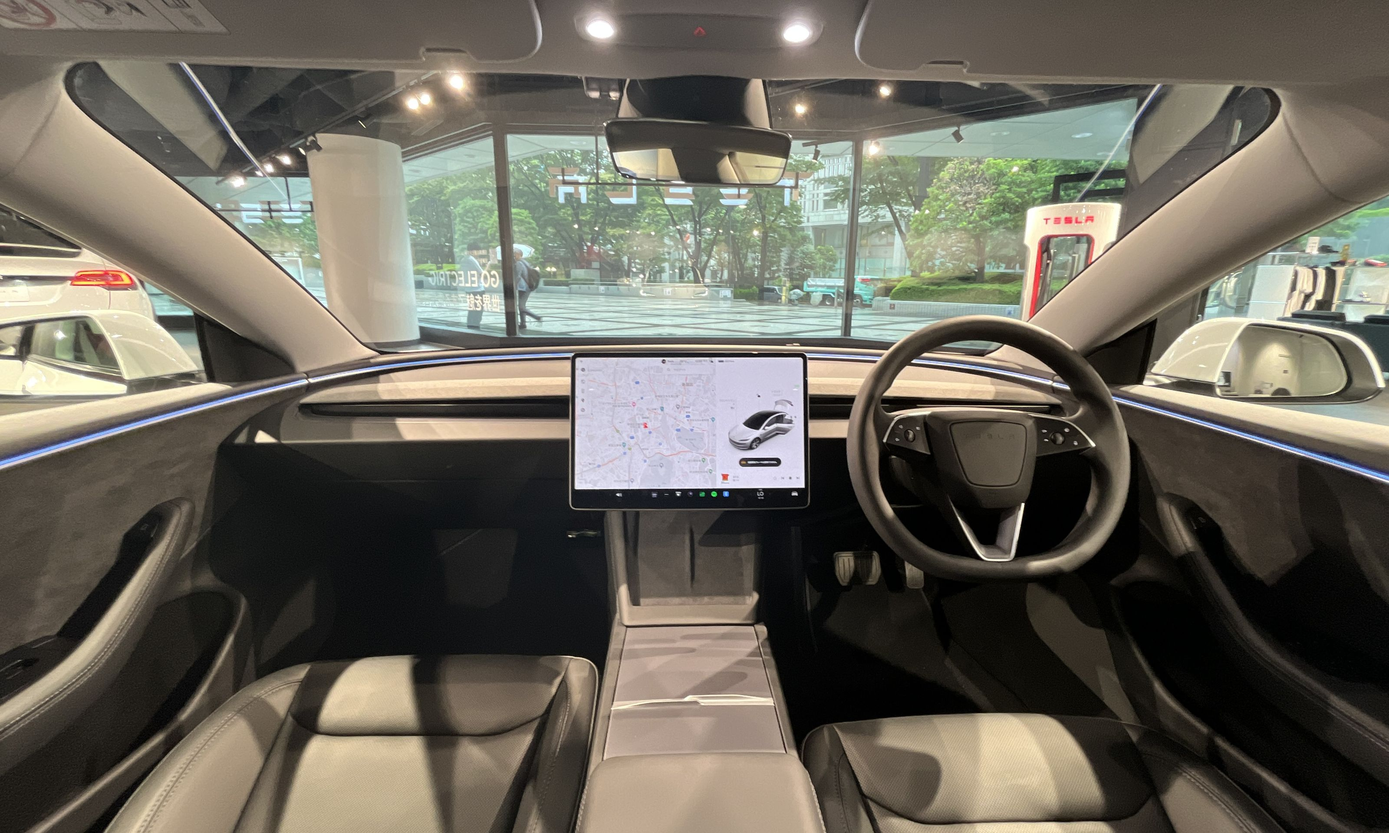
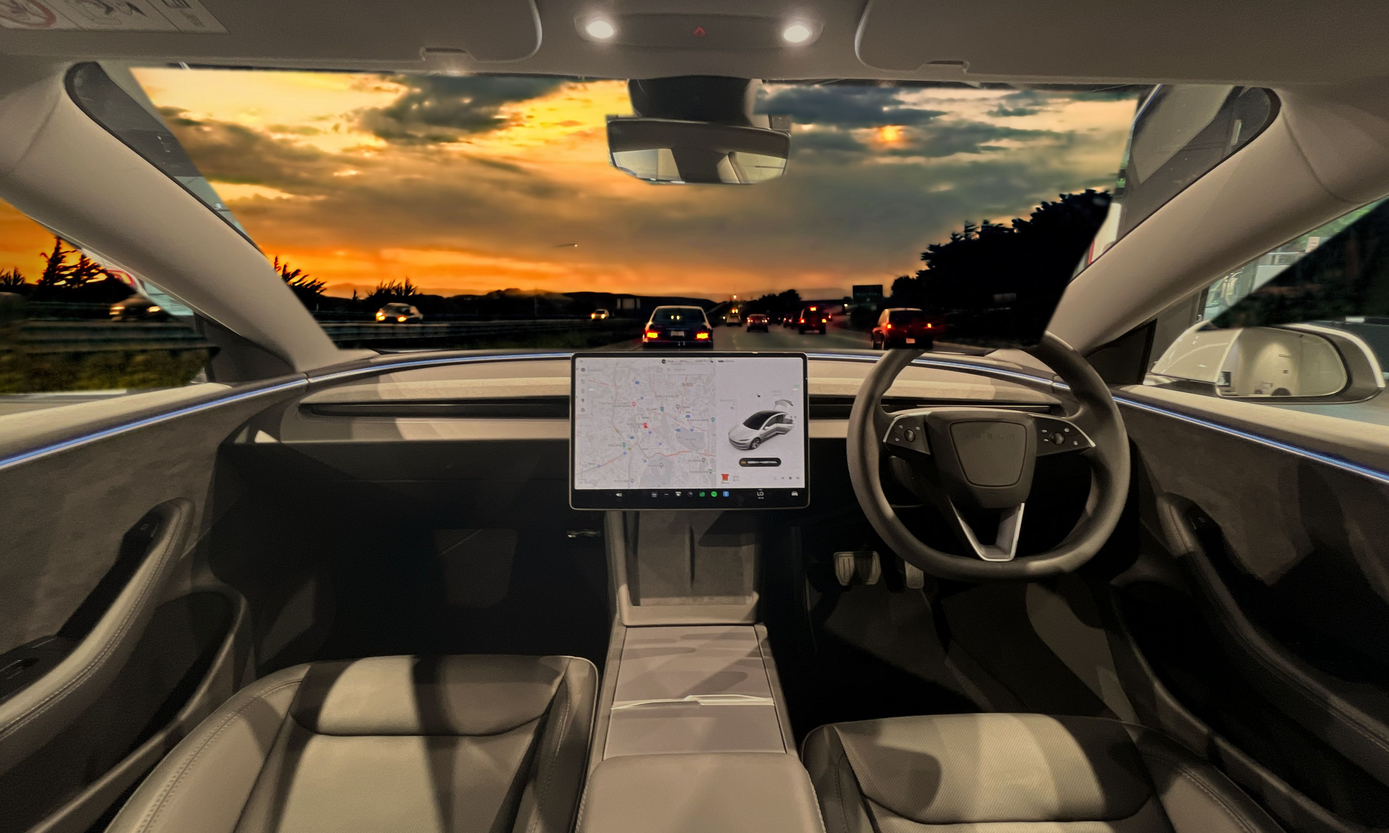
Simulaciones: auto en carretera al atardecer y lentes dentro de una tienda con el marco visible
- Auto: los vidrios de la foto del interior se recortaron y detrás va una carretera al atardecer (bluesbby, CC BY 2.0); interior con luz cálida; encuadre final con los autos de adelante sobre el tablero
- Lentes: la escena pasa a una tienda de regalos (Andre Carrotflower, CC BY-SA 4.0); la mirada cae en una tabla de madera y propone el mielero; marco de los lentes implícito (dos lentes con borde difuso, puente de la nariz y periferia desenfocada)

diff --git a/index.html b/index.html
@@ -1003,6 +1003,8 @@ body.sim-on .fab{display:none}
 .ph-gl{position:absolute;inset:0;z-index:5;pointer-events:none;background:linear-gradient(118deg,rgba(255,255,255,.13) 0,rgba(255,255,255,.04) 28%,transparent 44%,transparent 80%,rgba(255,255,255,.05))}
 .ph-sc{position:absolute;inset:0;z-index:1;pointer-events:none;background:linear-gradient(180deg,rgba(8,10,14,.62),rgba(8,10,14,.2) 22%,transparent 36%,transparent 82%,rgba(0,0,0,.3))}
 #sim .tn-cap{text-shadow:0 1px 12px rgba(0,0,0,.5)}
+.ph-lens{position:absolute;inset:0;z-index:2;width:100%;height:100%;pointer-events:none}
+.ph-blur{position:absolute;inset:0;z-index:2;pointer-events:none;-webkit-backdrop-filter:blur(7px);backdrop-filter:blur(7px);-webkit-mask-image:radial-gradient(ellipse 72% 68% at 50% 48%,transparent 62%,#000 100%);mask-image:radial-gradient(ellipse 72% 68% at 50% 48%,transparent 62%,#000 100%)}
 .ph-cr{position:absolute;right:14px;bottom:10px;z-index:2;font-size:10px;color:rgba(255,255,255,.45);pointer-events:none}
 .ph-q .sim-b1,.ph-q .sim-b2{min-height:0;padding:0 1em}
 
@@ -1091,7 +1093,7 @@ body.sim-on .fab{display:none}
 .rl-t{font-size:14px!important;margin-top:6px!important}
 .rl-why{display:block;margin-top:3px;font-family:'Newsreader',serif;font-style:italic;font-size:13px;line-height:1.25;color:rgba(255,255,255,.85)}
 /* lentes: interfaz espacial sobre lo que ves (foto real del Pueblito Los Dominicos) */
-.vp-hl{position:absolute;width:5.2%;aspect-ratio:1;border-radius:50%;transform:translate(-50%,-50%) scale(.8);background:radial-gradient(closest-side,rgba(255,255,255,.22),rgba(255,255,255,.06) 70%,transparent);box-shadow:0 0 0 2px rgba(255,255,255,.8),0 0 36px 8px rgba(255,255,255,.3);opacity:0;transition:opacity .5s,transform .6s cubic-bezier(.2,.9,.3,1.3);pointer-events:none}
+.vp-hl{position:absolute;width:8.4%;aspect-ratio:1;border-radius:50%;transform:translate(-50%,-50%) scale(.8);background:radial-gradient(closest-side,rgba(255,255,255,.22),rgba(255,255,255,.06) 70%,transparent);box-shadow:0 0 0 2px rgba(255,255,255,.8),0 0 36px 8px rgba(255,255,255,.3);opacity:0;transition:opacity .5s,transform .6s cubic-bezier(.2,.9,.3,1.3);pointer-events:none}
 .vp-hl.on{opacity:1;transform:translate(-50%,-50%) scale(1)}
 .vp-gz{position:absolute;left:0;top:0;z-index:4;width:22px;height:22px;margin:-11px 0 0 -11px;border-radius:50%;background:rgba(255,255,255,.55);box-shadow:0 0 0 1px rgba(255,255,255,.7),0 4px 12px rgba(0,0,0,.25);-webkit-backdrop-filter:blur(6px);backdrop-filter:blur(6px);opacity:0;pointer-events:none}
 .vp-win{position:absolute;left:0;top:0;z-index:5;width:min(310px,calc(100vw - 32px));opacity:0;pointer-events:none}
@@ -1108,8 +1110,8 @@ body.sim-on .fab{display:none}
 .vp-btn{display:block;width:100%;height:46px;margin-top:14px;border-radius:999px;background:rgba(255,255,255,.92);color:#0e1014;font-size:14.5px;font-weight:700;transition:transform .2s,background .2s}
 .vp-btn:hover{transform:scale(1.03);background:#fff}
 .vp-bar{display:block;width:64px;height:5px;margin:10px auto 0;border-radius:3px;background:rgba(255,255,255,.55);box-shadow:0 1px 4px rgba(0,0,0,.2)}
-.vp-hint{position:absolute;left:50%;bottom:72px;z-index:6;display:flex;align-items:center;gap:7px;transform:translateX(-50%);border-radius:999px;background:rgba(128,128,128,.3);padding:7px 14px;font-size:12.5px;font-weight:600;color:#fff;white-space:nowrap;-webkit-backdrop-filter:blur(20px);backdrop-filter:blur(20px);opacity:0;transition:opacity .3s}
-.vp-orn{position:absolute;left:50%;bottom:22px;z-index:6;display:flex;align-items:center;gap:8px;transform:translateX(-50%);border-radius:999px;background:rgba(128,128,128,.3);padding:5px 14px 5px 5px;font-size:12.5px;font-weight:600;color:#fff;white-space:nowrap;-webkit-backdrop-filter:blur(20px);backdrop-filter:blur(20px);box-shadow:inset 0 1px 0 rgba(255,255,255,.35)}
+.vp-hint{position:absolute;left:50%;bottom:136px;z-index:6;display:flex;align-items:center;gap:7px;transform:translateX(-50%);border-radius:999px;background:rgba(128,128,128,.3);padding:7px 14px;font-size:12.5px;font-weight:600;color:#fff;white-space:nowrap;-webkit-backdrop-filter:blur(20px);backdrop-filter:blur(20px);opacity:0;transition:opacity .3s}
+.vp-orn{position:absolute;left:50%;bottom:86px;z-index:6;display:flex;align-items:center;gap:8px;transform:translateX(-50%);border-radius:999px;background:rgba(128,128,128,.3);padding:5px 14px 5px 5px;font-size:12.5px;font-weight:600;color:#fff;white-space:nowrap;-webkit-backdrop-filter:blur(20px);backdrop-filter:blur(20px);box-shadow:inset 0 1px 0 rgba(255,255,255,.35)}
 .vp-orn span{width:26px;height:26px;border-radius:50%;overflow:hidden}.vp-orn .pt{width:100%;height:100%}
 .vp-orn b{display:grid;place-items:center;min-width:20px;height:20px;border-radius:10px;background:#fff;color:#0e1014;font-size:11px}
 @media(max-width:620px){.vp-t1{font-size:22px;margin-top:6px}.vp-wc{padding:14px}.vp-btn{height:42px;margin-top:10px}.vp-hint{display:none}}
@@ -3367,7 +3369,7 @@ const SIM = {
   voz:   {t:'En el parlante.', d:'Mientras cocinas, te hago la única pregunta que ningún conector me puede responder.', n:'Papá'},
   refri: {t:'En el refri.',    d:'Alguien de la casa anotó un cumple en el calendario de la cocina. Lo sumo a tus fechas.', n:'Tía Ana'},
   reloj: {t:'En el reloj.',    d:'El mismo aviso de 14 días, en tu muñeca. Ves cómo elegí y lo apruebas con un toque.', n:'Andrés'},
-  lentes:{t:'En los lentes.',  d:'Paseas por el Pueblito Los Dominicos. Algo te recuerda a tu mamá y lo guardas con un gesto.', n:'Mamá', h:'mielero-en-ceramica-gres'},
+  lentes:{t:'En los lentes.',  d:'Recorres una tienda con tus lentes. Algo te recuerda a tu mamá y lo guardas con un gesto.', n:'Mamá', h:'mielero-en-ceramica-gres'},
 };
 const SIM_KEY = {c:'car',a:'voz',r:'refri',w:'reloj',l:'lentes'};
 const VOZ_DESC = {'bufanda-alpaca-unisex-chocolate':['una bufanda de alpaca','la']};
@@ -3403,9 +3405,9 @@ const rel = p => (REL[p.n]||p.n).replace(/^Tu /,'tu ');
    La foto llena la vista y la interfaz se proyecta (matrix3d) sobre la pantalla que aparece en ella.
    q: esquinas de la pantalla en la foto (sup. izq., sup. der., inf. der., inf. izq.), en fracción del ancho/alto. */
 const PH = {
-  auto:  {src:'sim/auto.jpg',   ar:3200/1919, q:[[.4138,.4292],[.5792,.4292],[.5800,.6070],[.4134,.6070]], sar:1.54},
+  auto:  {src:'sim/auto.jpg',   ar:3200/1920, cr:'Fotos: Kazyakuruma (CC0) · bluesbby, CC BY 2.0', q:[[.4138,.4292],[.5792,.4292],[.5800,.6070],[.4134,.6070]], sar:1.54},
   refri: {src:'sim/refri.jpg',  ar:4/3,       q:[[.165,.271],[.915,.264],[.825,.689],[.245,.696]], sar:2.1, cr:'Foto: David Berkowitz · CC BY 2.0'},
-  lentes:{src:'sim/lentes.jpg', ar:2800/1838, cr:'Foto: Rjcastillo · CC BY-SA 4.0'},
+  lentes:{lens:1, src:'sim/tienda.jpg', ar:2702/2022, cr:'Foto: Andre Carrotflower · CC BY-SA 4.0'},
 };
 let phCam=null;
 const lerp=(a,b,k)=>a+(b-a)*k;
@@ -3415,8 +3417,13 @@ function quadM(w,h,q){
   const g=(dx3*dy2-dx2*dy3)/den, hh=(dx1*dy3-dx3*dy1)/den, a=x1-x0+g*x1, b=x3-x0+hh*x3, d=y1-y0+g*y1, e=y3-y0+hh*y3;
   return `matrix3d(${a/w},${d/w},0,${g/w},${b/h},${e/h},0,${hh/h},0,0,1,0,${x0},${y0},0,1)`;
 }
+const LENS=`<div class="ph-blur" aria-hidden="true"></div><svg class="ph-lens" viewBox="0 0 1000 600" preserveAspectRatio="none" aria-hidden="true">
+  <defs><filter id="lnF" x="-10%" y="-10%" width="120%" height="120%"><feGaussianBlur stdDeviation="9"/></filter>
+  <mask id="lnM"><rect width="1000" height="600" fill="#fff"/><g filter="url(#lnF)" fill="#000"><rect x="8" y="10" width="574" height="584" rx="220"/><rect x="418" y="10" width="574" height="584" rx="220"/></g></mask></defs>
+  <rect width="1000" height="600" fill="#0b0b0d" fill-opacity=".9" mask="url(#lnM)"/>
+  <path d="M444 600 C462 566 480 546 500 546 C520 546 538 566 556 600Z" fill="#0b0b0d" fill-opacity=".9" filter="url(#lnF)"/></svg>`;
 const phMount=(k,{screen='',world='',layer=''}={})=>{ const P=PH[k];
-  return `<div class="ph" id="phV"><img class="ph-bg" src="${P.src}" alt=""><div class="ph-w" id="phW"><img class="ph-i" src="${P.src}" alt="">${P.q?`<div class="ph-q" id="phQ">${screen}<i class="ph-gl"></i></div>`:''}${world}</div><div class="ph-sc"></div>${layer}${P.cr?`<small class="ph-cr">${P.cr}</small>`:''}</div>`; };
+  return `<div class="ph" id="phV"><img class="ph-bg" src="${P.src}" alt=""><div class="ph-w" id="phW"><img class="ph-i" src="${P.src}" alt="">${P.q?`<div class="ph-q" id="phQ">${screen}<i class="ph-gl"></i></div>`:''}${world}</div><div class="ph-sc"></div>${P.lens?LENS:''}${layer}${P.cr?`<small class="ph-cr">${P.cr}</small>`:''}</div>`; };
 /* cámara: k=0 muestra la foto completa; k=1 acerca hasta que la pantalla (o el foco) queda en "at" con el tamaño de zoomTo */
 function phCamera(k,{focus,zoomTo,at=[.5,.5],par=0,onMove}={}){
   const P=PH[k], V=$('phV'), W=$('phW'), Q=$('phQ'), st={k:0,mx:0,my:0}; let L={};
@@ -3457,7 +3464,7 @@ function simCar(p){
         <h4>Hoy es el cumple de ${rel(p)} y no tienes regalo. Pídelo ya, te lo llevo ahí.</h4>
         <div class="car-g">${img(x.u,'')}<span class="min-w-0"><b class="block truncate">${esc(x.t)}</b><small class="num">${clp(x.p)}</small><em>Llega antes que tú</em></span></div>
         <div class="car-bt" id="carBt"><button class="sim-b1" data-s="yes">Sí, mándalo</button><button class="sim-b2" data-s="no">Ahora no</button></div></div></div></div>`});
-  const cam=phCamera('auto',{zoomTo:(vw,vh)=>vw<=620?vw-20:Math.min(vw*.44,(vh-260)*1.54,660),at:[.5,.58]});
+  const cam=phCamera('auto',{zoomTo:(vw,vh)=>vw<=620?vw-20:Math.min(vw*.4,(vh-300)*1.54,620),at:[.5,.64]});
   const show=()=>{ const b=$('carB'); if(!b) return; b.style.visibility='visible'; if(!REDUCE) gsap.from(b,{x:30,opacity:0,duration:.6,ease:'power3.out'}); };
   if(REDUCE){ cam.st.k=1; cam.draw(); show(); }
   else gsap.to(cam.st,{k:1,duration:2.4,delay:.5,ease:'power2.inOut',onUpdate:cam.draw,onComplete:show});
@@ -3522,14 +3529,14 @@ function simReloj(){
 
 /* lentes: guardas una idea mirando, al estilo de una interfaz espacial */
 function simLentes(p,S){
-  const x=prod(S.h), n0=(SAVED[p.n]||[]).length, POT=[.5104,.5683], mob=innerWidth<=620;
+  const x=prod(S.h), n0=(SAVED[p.n]||[]).length, POT=[.338,.564], mob=innerWidth<=620;
   $('simD').innerHTML=phMount('lentes',{world:`<span class="vp-hl" id="glL" style="left:${POT[0]*100}%;top:${POT[1]*100}%"></span>`,
     layer:`<span class="vp-gz" id="glZ" aria-hidden="true"></span>
     <div class="vp-win" id="glG"><div class="vp-wc">
       <p class="vp-k"><span class="vp-ap">${GIFT_I}</span>Cuenta conmigo</p>
       <b class="vp-t1">Esto me recordó a ${rel(p)}.</b>
       <div class="vp-pr"><img id="glT" src="${x.u}" alt=""><span class="min-w-0"><b>${esc(x.t)}</b><small class="num">${clp(x.p)} · en Creado</small></span></div>
-      <p class="vp-why"><img src="${SI('pinterest','E60023')}" alt="">Guarda ideas de greda</p>
+      <p class="vp-why"><img src="${SI('pinterest','E60023')}" alt="">Guarda ideas de cocina</p>
       <button class="vp-btn" data-s="yes">Guardar para su cumple</button></div>
       <i class="vp-bar" aria-hidden="true"></i></div>
     <p class="vp-hint" id="glH"><svg width="16" height="16" viewBox="0 0 24 24" fill="none" stroke="currentColor" stroke-width="2" stroke-linecap="round"><path d="M8 13V6a1.5 1.5 0 0 1 3 0v6M11 11V4.5a1.5 1.5 0 0 1 3 0V11M14 11V6a1.5 1.5 0 0 1 3 0v7c0 4-2.5 7-6 7s-5-2-6.5-5L3 11.5a1.5 1.5 0 0 1 2.5-1.5L8 13"/></svg>Mira y junta los dedos</p>
@@ -3537,10 +3544,10 @@ function simLentes(p,S){
   const V=$('phV'), Z=$('glZ'), G=$('glG'); let look=false;
   /* la ventana queda junto a lo que miras, como si estuviera en el espacio */
   const place=()=>{ if(!phCam||!G.isConnected) return; const [px,py]=phCam.toView(...POT), L=phCam.L(), gw=G.offsetWidth, gh=G.offsetHeight;
-    if(mob){ G.style.left=(L.vw-gw)/2+'px'; G.style.top=(L.vh-gh-74)+'px'; }
+    if(mob){ G.style.left=(L.vw-gw)/2+'px'; G.style.top=(L.vh-gh-140)+'px'; }
     else { G.style.left=Math.min(L.vw-gw-24,px+L.w*L.s*.05)+'px'; G.style.top=Math.max(90,Math.min(L.vh-gh-80,py-gh/2))+'px'; }
     if(look) gsap.set(Z,{x:px,y:py}); };
-  const cam=phCamera('lentes',{focus:POT,zoomTo:(vw)=>vw<=620?1.15:1.7,at:mob?[.5,.3]:[.36,.55],par:REDUCE?0:.03,onMove:place});
+  const cam=phCamera('lentes',{focus:POT,zoomTo:(vw)=>vw<=620?1.8:1.7,at:mob?[.5,.3]:[.36,.55],par:REDUCE?0:.03,onMove:place});
   const lookAt=()=>{ if(!G.isConnected) return; look=true; $('glL').classList.add('on'); place(); G.classList.add('on'); };
   if(REDUCE){ cam.st.k=1; cam.draw(); lookAt(); $('glH').style.opacity=1; }
   else { const L=cam.L();
@@ -3554,7 +3561,7 @@ function simLentes(p,S){
       .to('#glH',{opacity:1,duration:.4},'-=.2');
     /* mover la cabeza: la escena se desplaza apenas */
     V.addEventListener('pointermove',e=>{ cam.st.mx=-(e.clientX/innerWidth-.5); cam.st.my=-(e.clientY/innerHeight-.5); cam.draw(); }); }
-  simAct.yes=()=>{ (SAVED[p.n]=SAVED[p.n]||[]).unshift({u:x.u,t:x.t,src:'glass'}); addAct({k:'learn',t:`Guardé una idea para ${p.n}`,s:`${x.t} · la viste en el Pueblito Los Dominicos`,n:p.n,unread:false}); simAfter={tab:'personas',p};
+  simAct.yes=()=>{ (SAVED[p.n]=SAVED[p.n]||[]).unshift({u:x.u,t:x.t,src:'glass'}); addAct({k:'learn',t:`Guardé una idea para ${p.n}`,s:`${x.t} · lo viste en una tienda`,n:p.n,unread:false}); simAfter={tab:'personas',p};
     const T=$('glT'), fl=T.cloneNode(), v=V.getBoundingClientRect(), t=T.getBoundingClientRect(), on=$('glO').getBoundingClientRect();
     Object.assign(fl.style,{position:'absolute',left:(t.left-v.left)+'px',top:(t.top-v.top)+'px',width:t.width+'px',height:t.height+'px',zIndex:9,borderRadius:'12px',objectFit:'cover'}); V.appendChild(fl);
     gsap.to(fl,{left:on.left-v.left+8,top:on.top-v.top+6,width:24,height:24,opacity:.2,duration:REDUCE?0:.7,ease:'power2.in',onComplete:()=>{ fl.remove(); $('glN').textContent=n0+1; if(!REDUCE) gsap.fromTo('#glO',{scale:1.12},{scale:1,duration:.5,ease:'back.out(3)'}); }});
